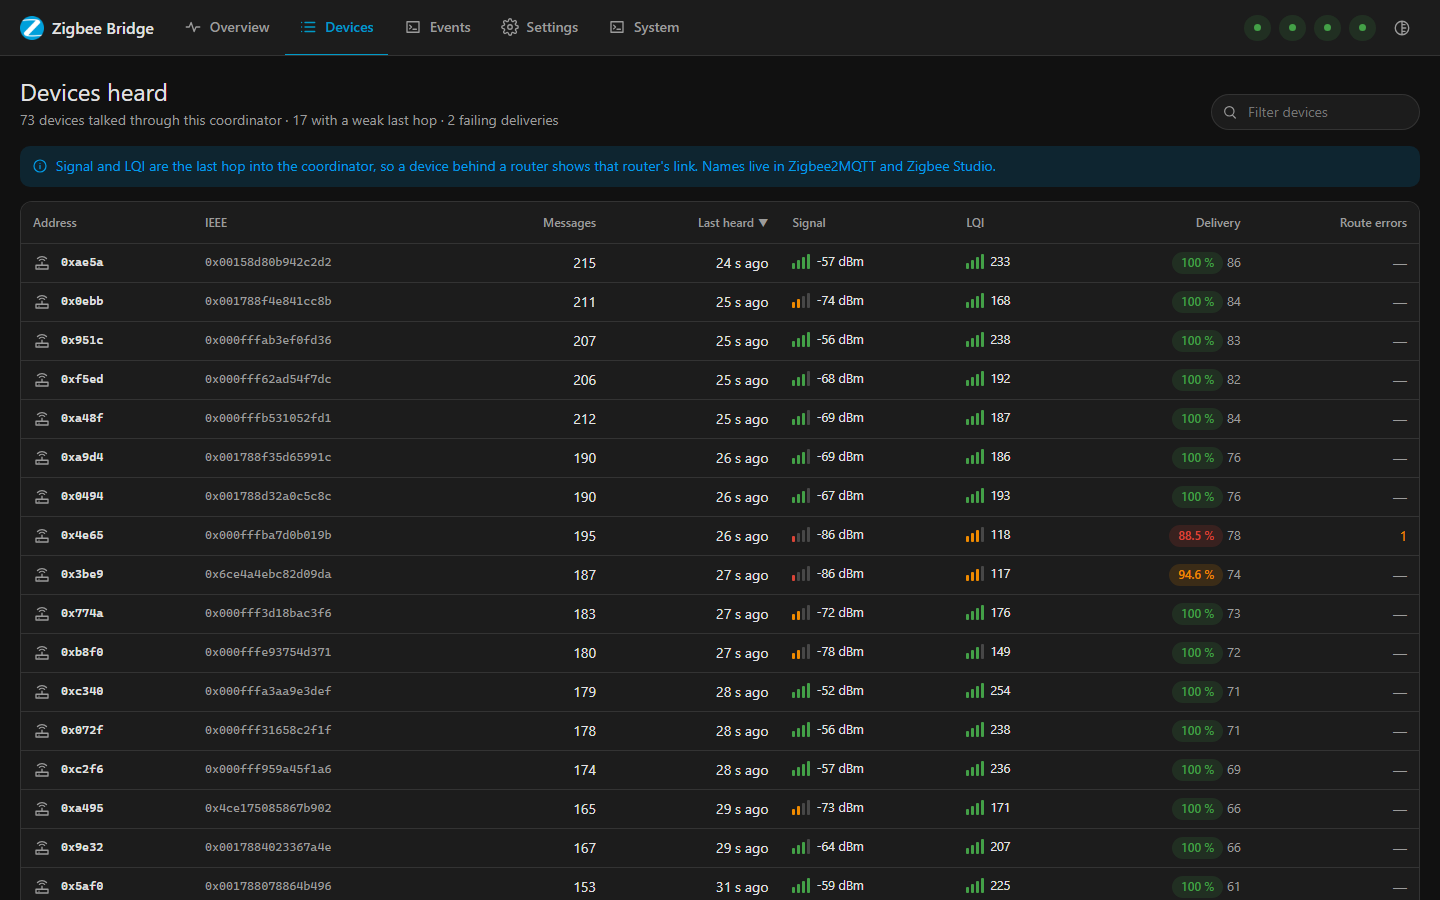
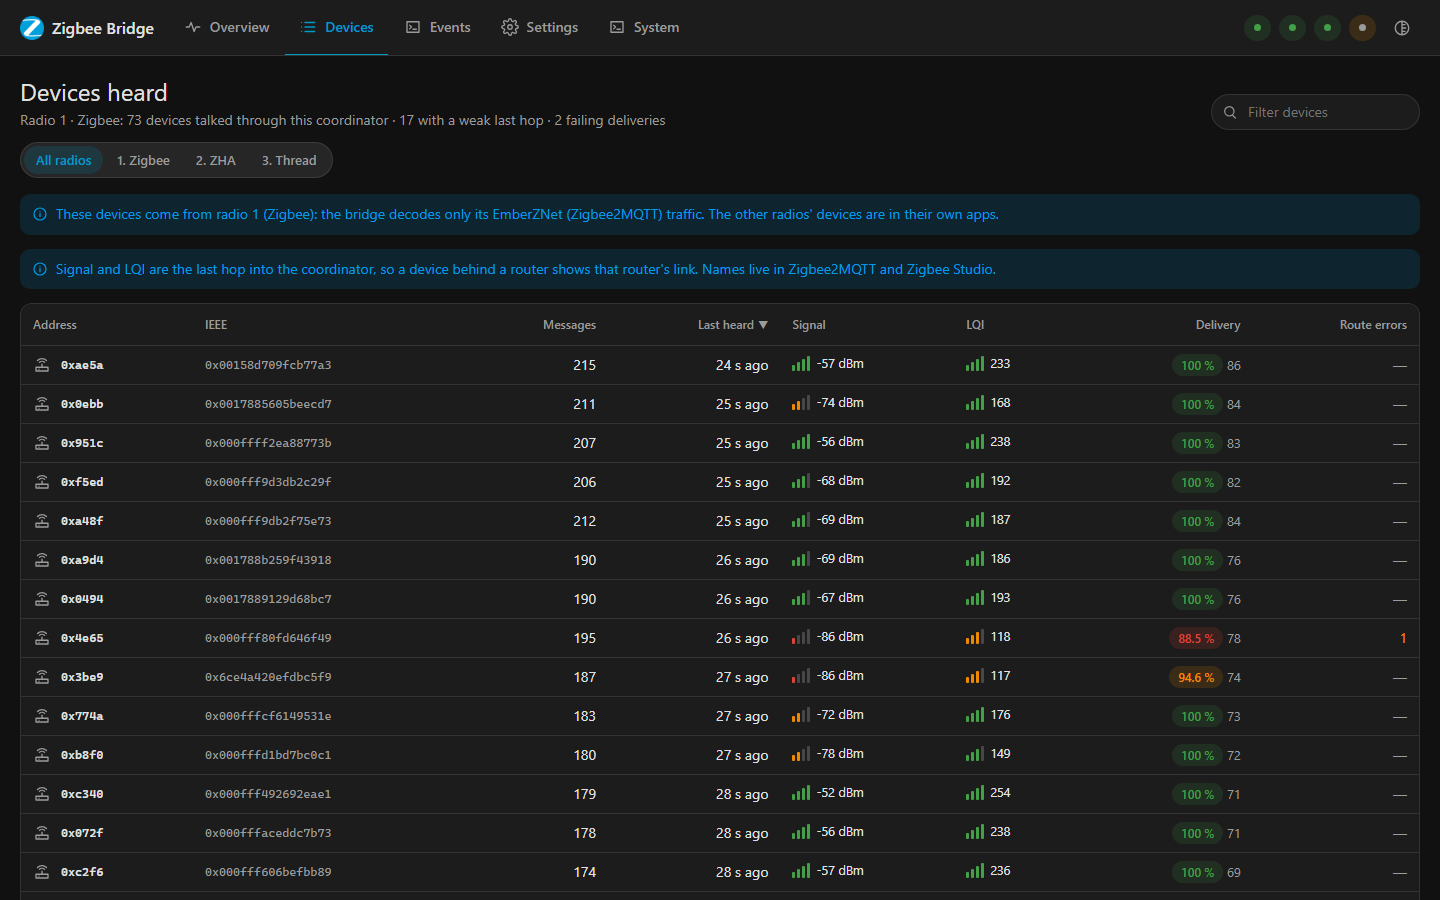
Zigbee Bridge 2.0.2

diff --git a/main/fwcat.c b/main/fwcat.c
@@ -130,6 +130,31 @@ static esp_http_client_handle_t gh_open(const char *url, bool api, int *status, 
     return ret;
 }
 
+// GitHub's asset store now and then answers a fresh release with a server error (seen: "HTTP 618" right after a
+// release was published) and a moment later serves it fine. One more try after 2 s, from the start of the
+// redirect chain (a new signed address), and what the server said goes to the log.
+static void log_error_body(esp_http_client_handle_t c, int status, const char *url) {
+    char eb[160];
+    int er = esp_http_client_read(c, eb, sizeof(eb) - 1);
+    eb[er > 0 ? er : 0] = 0;
+    for (char *q = eb; *q; q++)
+        if (*q < 0x20 || *q > 0x7E) *q = ' ';
+    const char *h = strstr(url, "://");
+    ESP_LOGW(TAG, "%.48s answered HTTP %d: %s", h ? h + 3 : url, status, eb);
+}
+
+static esp_http_client_handle_t gh_open_retry(const char *url, bool api, int *status, int64_t *len, const char **why) {
+    for (int attempt = 0;; attempt++) {
+        esp_http_client_handle_t c = gh_open(url, api, status, len, why);
+        bool server_trouble = !c || *status >= 500;
+        if (c && *status >= 400) log_error_body(c, *status, url);
+        if (!server_trouble || attempt >= 1) return c;
+        if (c) esp_http_client_cleanup(c);
+        ESP_LOGW(TAG, "%s: trying once more in 2 s", c ? "server error" : *why ? *why : "no connection");
+        vTaskDelay(pdMS_TO_TICKS(2000));
+    }
+}
+
 // ---------------------------------------------------------------- downloadable dongle list
 
 #define DB_MAX 32768
@@ -224,7 +249,7 @@ static void db_refresh(void) {
     int64_t len;
     const char *why = NULL;
     char whybuf[40];
-    esp_http_client_handle_t c = gh_open(url, false, &status, &len, &why);
+    esp_http_client_handle_t c = gh_open_retry(url, false, &status, &len, &why);
     char *body = NULL;
     if (c && status == 200) {
         body = heap_caps_malloc(DB_MAX + 1, MALLOC_CAP_SPIRAM | MALLOC_CAP_8BIT);
@@ -411,7 +436,7 @@ static void do_check(int radio) {
         }
         int status;
         int64_t len;
-        c = gh_open(url, true, &status, &len, &why);
+        c = gh_open_retry(url, true, &status, &len, &why);
         if (c && status != 200) {
             set_error(R->error, sizeof(R->error), "GitHub answered %d%s", status,
                       status == 403 || status == 429 ? " (rate limited: try again in an hour)" : status == 404 ? " (no such repo or no releases)" : "");
@@ -487,7 +512,7 @@ static void do_download(void) {
         begun = true;
         int status;
         int64_t len;
-        h = gh_open(c.a.url, false, &status, &len, &why);
+        h = gh_open_retry(c.a.url, false, &status, &len, &why);
         if (h && status != 200) {
             snprintf(whybuf, sizeof(whybuf), "GitHub answered %d for the file", status);
             why = whybuf;

diff --git a/main/updater.c b/main/updater.c
@@ -162,6 +162,31 @@ static esp_http_client_handle_t open_url(const char *url, int *status, int64_t *
     return ret;
 }
 
+// GitHub's asset store now and then answers a fresh release with a server error (seen: "HTTP 618" right after a
+// release was published) and a moment later serves it fine. One more try after 2 s, from the start of the
+// redirect chain (a new signed address), and what the server said goes to the log.
+static void log_error_body(esp_http_client_handle_t c, int status, const char *url) {
+    char eb[160];
+    int er = esp_http_client_read(c, eb, sizeof(eb) - 1);
+    eb[er > 0 ? er : 0] = 0;
+    for (char *q = eb; *q; q++)
+        if (*q < 0x20 || *q > 0x7E) *q = ' ';
+    const char *h = strstr(url, "://");
+    ESP_LOGW(TAG, "%.48s answered HTTP %d: %s", h ? h + 3 : url, status, eb);
+}
+
+static esp_http_client_handle_t open_url_retry(const char *url, int *status, int64_t *len, const char **why) {
+    for (int attempt = 0;; attempt++) {
+        esp_http_client_handle_t c = open_url(url, status, len, why);
+        bool server_trouble = !c || *status >= 500;
+        if (c && *status >= 400) log_error_body(c, *status, url);
+        if (!server_trouble || attempt >= 1) return c;
+        if (c) esp_http_client_cleanup(c);
+        ESP_LOGW(TAG, "%s: trying once more in 2 s", c ? "server error" : *why ? *why : "no connection");
+        vTaskDelay(pdMS_TO_TICKS(2000));
+    }
+}
+
 // ---------------------------------------------------------------- check
 
 static void do_install(void);
@@ -183,7 +208,7 @@ static void do_check(void) {
     int status = 0, n = 0;
     int64_t len;
     const char *why = NULL;
-    esp_http_client_handle_t c = open_url(update_url(&cfg), &status, &len, &why);
+    esp_http_client_handle_t c = open_url_retry(update_url(&cfg), &status, &len, &why);
     if (c) {
         while (n < MANIFEST_MAX) {
             int r = esp_http_client_read(c, body + n, MANIFEST_MAX - n);
@@ -275,7 +300,7 @@ static void do_install(void) {
     esp_http_client_handle_t c = NULL;
     if (!buf || !part) fail = "out of memory";
     else if (part->size < (size_t)r.size) fail = "the release doesn't fit the firmware slot";
-    else if (!(c = open_url(r.url, &status, &len, &fail))) {
+    else if (!(c = open_url_retry(r.url, &status, &len, &fail))) {
         // fail says why
     } else if (status != 200) fail = "the download answered with an error";
     else if (len > 0 && len != r.size) fail = "the download's size doesn't match the release";

diff --git a/tools/mock_bridge.py b/tools/mock_bridge.py
@@ -31,10 +31,13 @@ HA_IP = "192.168.1.10"
 sim.cfg.update({"ip": "192.168.1.50", "allow": HA_IP})
 for e in sim.events:
     e["text"] = e["text"].replace("172.30.33.5", HA_IP)
-# Recordings carry real devices' IEEE addresses: keep each maker's prefix (the first 3 bytes), invent the rest
+# Recordings carry real devices' IEEE addresses: keep each maker's prefix (the first 3 bytes), invent the rest. The
+# hash is keyed with a secret made fresh each run and never stored: an unkeyed hash of 5 unknown bytes could be
+# searched back to the real address.
+_IEEE_KEY = os.urandom(16)
 for d in sim.devs:
     if d.get("ieee", "").startswith("0x") and len(d["ieee"]) == 18:
-        d["ieee"] = d["ieee"][:8] + hashlib.sha256(d["ieee"].encode()).hexdigest()[:10]
+        d["ieee"] = d["ieee"][:8] + hashlib.sha256(_IEEE_KEY + d["ieee"].encode()).hexdigest()[:10]
 
 DONGLE_ID = {"usb_chip": "CP210x", "model": "sonoff_dongle-pmg24", "model_name": "SONOFF Dongle Plus MG24", "radio": "EFR32MG24",
              "family": "Silicon Labs", "protocol": "EmberZNet (EZSP)", "protocol_detected": True, "z2m_adapter": "ember",

diff --git a/README.md b/README.md
@@ -15,7 +15,7 @@ spot. Plug a stick in and it sets itself up.
 It also keeps an eye on the links: a dashboard shows how each app and its stick are getting on,
 which devices it hears and how well, and warns you about trouble.
 
-![The bridge's dashboard: health, traffic, response time and the serial link](docs/screenshots/overview.png)
+![The bridge's dashboard: every radio's health, traffic and clients together](docs/screenshots/overview.png)
 
 ## What it does
 
@@ -36,9 +36,9 @@ which devices it hears and how well, and warns you about trouble.
   be formatted from the dashboard).
 - **Works with Zigbee Studio**, which shows the bridge's health next to your Zigbee network.
 
-| Devices it hears | Settings |
+| Devices it hears | Radios |
 | --- | --- |
-| ![Devices heard, with signal and delivery](docs/screenshots/devices.png) | ![Network, Zigbee2MQTT and stick settings](docs/screenshots/settings.png) |
+| ![Devices heard, with signal and delivery](docs/screenshots/devices.png) | ![Settings, Radios: each stick's role, port, baud rate and allowed host](docs/screenshots/settings.png) |
 
 ## What you need
 

diff --git a/CHANGELOG.md b/CHANGELOG.md
@@ -2,6 +2,10 @@
 
 Each version's notes are what the bridge shows before installing it, so keep them under 500 bytes.
 
+## 2.0.2
+
+Updates, firmware checks and the stick list try once more when GitHub's download server answers with a server error (it sometimes does for a few minutes after a release is published), and the server's message goes to the log.
+
 ## 2.0.1
 
 More free memory: the radio tasks' stacks and the network buffers moved to PSRAM and the other stacks were trimmed to what they use (about 50 KB more internal RAM free than 2.0.0). System shows every task's stack and the heaps. The header shows one pill per radio, named after its app.
